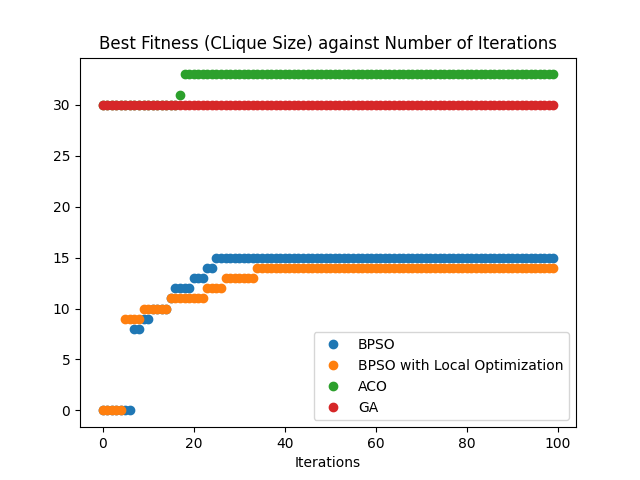
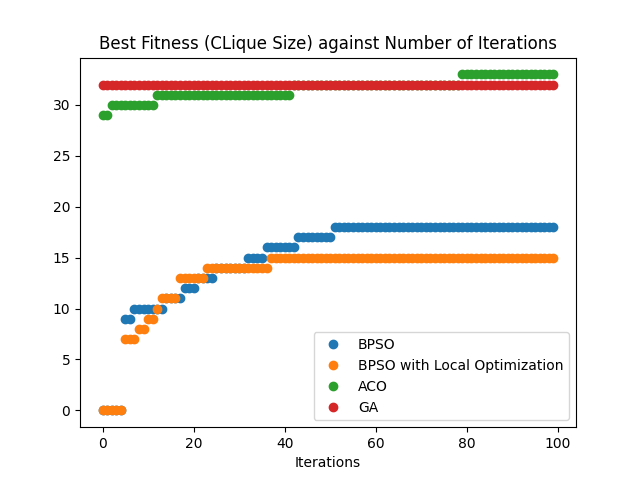
u1

Changed region(s): [[0.1875, 0.4375, 0.875, 0.7188], [0.1562, 0.125, 0.875, 0.25], [0.1875, 0.8438, 0.2188, 0.875]]

diff --git a/Performance.py b/Performance.py
@@ -1,9 +1,11 @@
+import networkx
 import pandas as pd
 import numpy as np
 import matplotlib.pyplot as plt
+import os      
 
 from BPSO import *
-from GA_clique import main
+from GA_clique import *
 from cliqueAco import results_aco 
 
 from ImportGraph import *
@@ -14,27 +16,27 @@ from LocalOptimizationFunctions import ExpandExistingClique,LimitClique
 graph1fileName = "Graphs/C125.9.txt"
 G = ImportGraph(graph1fileName)
 
- 
-def maxFunc(array):
-    return maxCliqueFitness(array,G)
-
-def ParticleExpandClique(array):
-    return ExpandExistingClique(LimitClique(array,G),G)
 
 def results_GA(Iters,Graph):
     return main(Iters,nx.to_dict_of_lists(Graph))
  
 def results_bpso_locally_optimized(Iters,Graph):
-    bpso = BPSO(numOfParticles=50, dimensions=Graph.number_of_nodes(),
+    def maxFunc(array):
+        return maxCliqueFitness(array,Graph)
+
+    def ParticleExpandClique(array):
+        return ExpandExistingClique(LimitClique(array,Graph),Graph)
+
+    bpso = BPSO(numOfParticles=100, dimensions=Graph.number_of_nodes(),
             fitnessFunc=maxFunc, maxIter= Iters, particleLocalOptimizationFunc = ParticleExpandClique,
             printParticles = False, printGbest = False)
     return bpso.benchmark()
 
 def results_bpso(Iters,Graph):
-    def ParticleExpandClique(array):
-        return ExpandExistingClique(LimitClique(array,Graph),Graph)
+    def maxFunc(array):
+        return maxCliqueFitness(array,Graph)
 
-    bpso = BPSO(numOfParticles=50, dimensions=Graph.number_of_nodes(),
+    bpso = BPSO(numOfParticles=200, dimensions=Graph.number_of_nodes(),
             fitnessFunc=maxFunc, maxIter= Iters, particleLocalOptimizationFunc = None,
             printParticles = False, printGbest = False)
     return bpso.benchmark()
@@ -44,7 +46,6 @@ def results_bpso(Iters,Graph):
 def compare_metaheuristics(graph,n_iters=15,graphName = "C125.9"):
     print("Starting Comparision...")
 
-
     iters = [i for i in range(n_iters)]
     avgFitness_bpso, bestFitness_bpso, maxCliqueNodes_bpso = results_bpso(n_iters,graph)
     avgFitness_bpso_LO, bestFitness_bpso_LO, maxCliqueNodes_bpso_LO = results_bpso(n_iters,graph)
@@ -52,14 +53,15 @@ def compare_metaheuristics(graph,n_iters=15,graphName = "C125.9"):
     avgFitness_ACO, bestFitness_ACO, maxCliqueNodes_ACO = results_aco(n_iters,graph)
 
     y_names = ['BPSO', "BPSO with Local Optimization","ACO", "GA"]
+    plot_style = '*'
     
     avgFitness = {"Iterations" : iters, "BPSO": avgFitness_bpso, "BPSO with Local Optimization": avgFitness_bpso_LO 
         , "ACO" : avgFitness_ACO , "GA" : avgFitness_GA
     } 
     frame = pd.DataFrame(avgFitness)
-    frame.plot(x ='Iterations', y = y_names, style='o')
+    frame.plot(x ='Iterations', y = y_names, style=plot_style)
     plt.title('Average Fitness against Number of Iterations')
-    plt.savefig('Plots/plot-average-fitness.png')
+    plt.savefig('Plots/plot-average-fitness-' + graphName + '.png')
     plt.show()
     print(frame)
 
@@ -67,12 +69,47 @@ def compare_metaheuristics(graph,n_iters=15,graphName = "C125.9"):
        , "ACO" : bestFitness_ACO  , "GA" : bestFitness_GA
         } 
     frame = pd.DataFrame(bestFitness)
-    frame.plot(x ='Iterations', y = y_names, style='o')
+    frame.plot(x ='Iterations', y = y_names, style=plot_style)
     plt.title('Best Fitness (CLique Size) against Number of Iterations')
-    plt.savefig('Plots/plot-best-fitness.png')
+    plt.savefig('Plots/plot-best-fitness-'+ graphName +'.png')
     plt.show()
     print(frame)
 
+def compare_metaheuristics_graphs(n_iters=15):
+    print("Starting Comparision...")
 
-compare_metaheuristics(G,100)
+    graphFileNames = os.listdir("Graphs/") 
+    allGraphNames = []
+    bestFitness_bpso = []
+    bestFitness_bpso_LO = []
+    bestFitness_GA = [] 
+    bestFitness_ACO = []
+    iters = [i for i in range(n_iters)]
+
+    for fileName in graphFileNames:
+        graph = ImportGraph("Graphs/"+fileName)
+        
+        graphName = fileName[:-5]
+        if graphName[-4:] == ".col":
+            graphName = graphName[:-5]
+        
+        print(graphName)
+        allGraphNames.append(graphName)
+
+        bestFitness_bpso.append(max(results_bpso(n_iters,graph)[1]))
+        bestFitness_bpso_LO.append(max(results_bpso_locally_optimized(n_iters,graph)[1]))
+        bestFitness_GA.append(max(results_GA(n_iters,graph)[1]))
+        bestFitness_ACO.append(max(results_aco(n_iters,graph)[1]))    
+
+
+    bestFitness = {"Graph Name" : iters, "BPSO": bestFitness_bpso, "BPSO with Local Optimization": bestFitness_bpso_LO  
+    , "ACO" : bestFitness_ACO  , "GA" : bestFitness_GA
+        } 
+    frame = pd.DataFrame(bestFitness)
+    print(frame)
+
+
+# compare_metaheuristics(G,400)
+
+compare_metaheuristics_graphs(3)
 

diff --git a/BPSO.py b/BPSO.py
@@ -1,3 +1,4 @@
+from ImportGraph import ImportGraph
 from random import random, randint
 import numpy as np
 
@@ -6,7 +7,7 @@ from LocalOptimizationFunctions import ExpandClique
 # Boolean Particle Swarm Optimization
 class BPSO: 
 
-    def __init__(self, numOfParticles, dimensions, fitnessFunc, maxIter, C1 = 0.2, C2 = 0.5, Omega=0.5, particleLocalOptimizationFunc = None, printParticles = False, printGbest = False):
+    def __init__(self, numOfParticles, dimensions, fitnessFunc, maxIter, C1 = 0.6, C2 = 0.2, Omega=0.1, particleLocalOptimizationFunc = None, printParticles = False, printGbest = False):
         self.C1 = C1  # Probablity of c1 (cognitive boolean weightage) being 1
         self.C2 = C2  # Probablity of c2 (social boolean weightage) being 1
         self.Omega = Omega  # Probablity of omega (inertia boolean weightage)  being 1
@@ -101,7 +102,7 @@ class BPSO:
 
                 self.updateParticle(p)
 
-            avgFitness.append(total/self.numOfParticles)
+            avgFitness.append(int(total/self.numOfParticles))
             bestFitness.append(self.gBestFitness)
 
 
@@ -135,8 +136,12 @@ class BPSO:
 #     4: [3, 1]
 # }
   
+graph1fileName = "Graphs/C125.9.txt"
+G = ImportGraph(graph1fileName)
 
-def maxCliqueFitness(array,graph):
+
+
+def maxCliqueFitness(array,graph=G):
     
     nodes = []
     for i in range(len(array)):
@@ -169,10 +174,21 @@ def maxCliqueClosenessFitness(array,graph):
     return len(nodes)
 
 
-# print ("maxCliqueFitness",maxCliqueFitness(np.array([1,1,1,0,0])))
+# from LocalOptimizationFunctions import ExpandExistingClique,LimitClique
+# def ParticleExpandClique(array):
+#     return ExpandExistingClique(LimitClique(array,G),G)
 
-# bpso = BPSO(numOfParticles=30, dimensions=5,
-#             fitnessFunc=maxCliqueFitness, maxIter=100)
-# bpso.execute()
+# def maxFunc(array):
+#     return maxCliqueFitness(array,G)
 
-# print(bpso.maxCliqueNodes())
+# bpso = BPSO(numOfParticles=200, dimensions= G.number_of_nodes(),
+#             fitnessFunc=maxCliqueFitness, maxIter=400, particleLocalOptimizationFunc = ParticleExpandClique)
+
+# avgFitness,bestFitness,maxCliqueNodes = bpso.benchmark()
+# print()
+# print(bpso.gBestDimensionPositions())
+# print('gbest',bpso.gBestFitness)
+# print('maxCliqueNodes',maxCliqueNodes)
+# print('avgFitness',avgFitness)
+# print('bestFitness',bestFitness)
+

diff --git a/GA_clique.py b/GA_clique.py
@@ -3,6 +3,8 @@ import numpy as np
 import pandas as pd
 import networkx as nx
 
+from ImportGraph import ImportGraph
+
 population_size = 50
 no_parents = 2
 fitness = []
@@ -194,11 +196,11 @@ def pop_resize(selected):
         del b_population[i]
         del fitness[i]
 
-
 # ------------------------- Clique optimization functions ----------------
 def check_Clique(Chrom, G):
     #Chrom is a vector with binary values
 
+    print("Chrom",Chrom)
     nodes = []
     for i in range(len(Chrom)):
         if Chrom[i] == 1:
@@ -217,14 +219,18 @@ def check_Clique(Chrom, G):
 
     
     # print(k)
+    at = []
+    for i in G.keys():
+        at.append(i)
 
-    
+    at.remove(k)
+    random.shuffle(at)
 
     CliqueV = [] 
     CliqueV.append(k)
     # m = G.keys()
     # random.shuffle(m)
-    for n in G.keys():
+    for n in at:
         if all(True if n in G[v] else False for v in CliqueV): # If n is in the neighbourhood of all nodes in the clique
             CliqueV.append(n)
                 
@@ -232,12 +238,12 @@ def check_Clique(Chrom, G):
 
     # Create New Chromosome of updated clique       
     NewChrom = [0] * len(Chrom)
+    print(CliqueV)
     for v in CliqueV:
         NewChrom[v-1] = 1
 
     # print("new", NewChrom)
     return NewChrom
-
 
 def expand_clique(Chrom, G):
 
@@ -359,10 +365,21 @@ def main(iterr, graph):
 
 
 
-G = {}
-G = importGs(G, "graphs/p_hat300_1.txt")
-n , k, m = results_ga(10, G)
-# print(n, k, m)
+# G = {}
+# G = importGs(G, "graphs/p_hat300_1.txt")
+
+# results_GA(10,G)
+# --- t1
+# def results_GA(Iters,Graph):
+#     return main(Iters,nx.to_dict_of_lists(Graph))
+
+# G = ImportGraph("graphs/C125.9.txt")
+# (avg_fitness_array,  max_fitness_array, max_nodes) = results_GA(1000, G)
+# print(avg_fitness_array)
+# print(max_fitness_array)
+# --- t1
+
+#print(n, k, m)
 
 # a = [4, 5, 8, 9, 10, 11, 13, 19, 30, 35, 39, 42, 49, 52, 55, 62, 64, 66, 67, 70, 73, 75, 78, 80, 89, 91, 98, 99, 101, 111, 114, 125]
 # a = [6, 7, 9, 11, 13, 19, 22, 24, 29, 33, 35, 38, 39, 41, 43, 45, 47, 50, 52, 54, 57, 67, 68, 75, 80, 85, 95, 96, 110, 123]
@@ -405,9 +422,9 @@ def checkClique(G, C):
     return True
 
 
-C = m
+# C = m
 # print(checkClique(G, C))
-print(checkClique(G, C))
+# print(checkClique(G, C))
 
 
 # a = n

diff --git a/ImportGraph.py b/ImportGraph.py
@@ -1,5 +1,6 @@
 import networkx as nx
 
+
 def ImportGraph(fileName):
 
     with open(fileName, 'r') as f:
